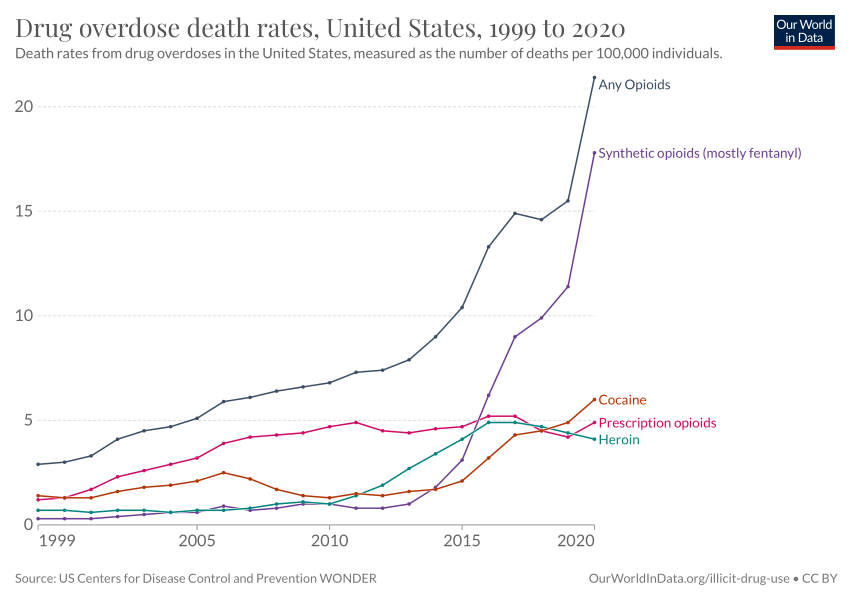
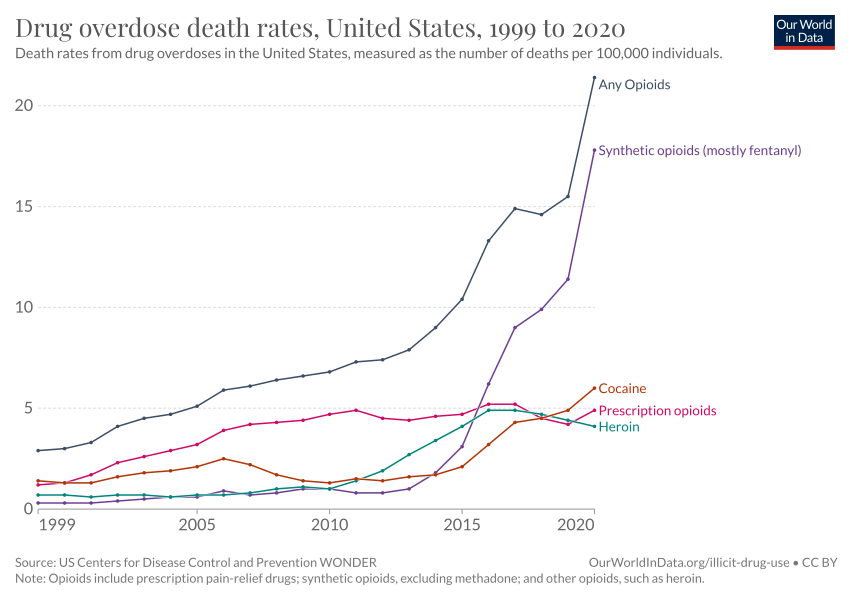
Deploy 2022-09-19T10:31:03.202Z Updating chart drug-overdose-death-rates

diff --git a/co2-emissions.html b/co2-emissions.html
@@ -1,4 +1,4 @@
-<!doctype html><html><head><meta name="viewport" content="width=device-width, initial-scale=1"/><title>CO2 emissions - Our World in Data</title><meta name="description" content="How much CO2 does the world emit? Which countries emit the most?"/><link rel="canonical" href="https://ourworldindata.org/co2-emissions"/><link rel="alternate" type="application/atom+xml" href="/atom.xml"/><link rel="apple-touch-icon" sizes="180x180" href="/apple-touch-icon.png"/><meta property="fb:app_id" content="1149943818390250"/><meta property="og:url" content="https://ourworldindata.org/co2-emissions"/><meta property="og:title" content="CO2 emissions"/><meta property="og:description" content="How much CO2 does the world emit? Which countries emit the most?"/><meta property="og:image" content="https://ourworldindata.org/uploads/2022/03/Screenshot-2022-03-04-at-16.51.31-768x480.png"/><meta property="og:site_name" content="Our World in Data"/><meta name="twitter:card" content="summary_large_image"/><meta name="twitter:site" content="@OurWorldInData"/><meta name="twitter:creator" content="@OurWorldInData"/><meta name="twitter:title" content="CO2 emissions"/><meta name="twitter:description" content="How much CO2 does the world emit? Which countries emit the most?"/><meta name="twitter:image" content="https://ourworldindata.org/uploads/2022/03/Screenshot-2022-03-04-at-16.51.31-768x480.png"/><link href="https://fonts.googleapis.com/css?family=Lato:300,400,400i,700,700i|Playfair+Display:400,700&amp;display=swap" rel="stylesheet"/><link rel="stylesheet" href="https://ourworldindata.org/assets/commons.css"/><link rel="stylesheet" href="https://ourworldindata.org/assets/owid.css"/><meta name="citation_title" content="CO₂ and Greenhouse Gas Emissions"/><meta name="citation_fulltext_html_url" content="https://ourworldindata.org/co2-and-other-greenhouse-gas-emissions"/><meta name="citation_fulltext_world_readable" content=""/><meta name="citation_publication_date" content="2020/05/11"/><meta name="citation_journal_title" content="Our World in Data"/><meta name="citation_journal_abbrev" content="Our World in Data"/><meta name="citation_author" content="Hannah Ritchie"/><meta name="citation_author" content="Max Roser"/><meta name="citation_author" content="Pablo Rosado"/></head><body class=""><header class="site-header"><div class="wrapper site-navigation-bar"><div class="site-logo"><a href="/">Our World<br/> in Data</a></div><nav class="site-navigation"><div class="topics-button-wrapper"><a href="/#entries" class="topics-button"><div class="label">Articles <br/><strong>by topic</strong></div><div class="icon"><svg width="12" height="6"><path d="M0,0 L12,0 L6,6 Z" fill="currentColor"></path></svg></div></a></div><div><div class="site-primary-navigation"><form class="HeaderSearch" action="/search" method="GET"><input type="search" name="q" placeholder="Search..."/><div class="icon"><svg aria-hidden="true" focusable="false" data-prefix="fas" data-icon="magnifying-glass" class="svg-inline--fa fa-magnifying-glass " role="img" xmlns="http://www.w3.org/2000/svg" viewBox="0 0 512 512"><path fill="currentColor" d="M416 208c0 45.9-14.9 88.3-40 122.7L502.6 457.4c12.5 12.5 12.5 32.8 0 45.3s-32.8 12.5-45.3 0L330.7 376c-34.4 25.2-76.8 40-122.7 40C93.1 416 0 322.9 0 208S93.1 0 208 0S416 93.1 416 208zM208 352c79.5 0 144-64.5 144-144s-64.5-144-144-144S64 128.5 64 208s64.5 144 144 144z"></path></svg></div></form><ul class="site-primary-links"><li><a href="/blog" data-track-note="header-navigation">Latest</a></li><li><a href="/about" data-track-note="header-navigation">About</a></li><li><a href="/donate" data-track-note="header-navigation">Donate</a></li></ul></div><div class="site-secondary-navigation"><ul class="site-secondary-links"><li><a href="/charts" data-track-note="header-navigation">All charts</a></li><li><a href="https://sdg-tracker.org" data-track-note="header-navigation">Sustainable Development Goals Tracker</a></li></ul></div></div></nav><div class="header-logos-wrapper"><a href="https://www.oxfordmartin.ox.ac.uk/global-development" class="oxford-logo"><img src="https://ourworldindata.org/oms-logo.svg" alt="Oxford Martin School logo"/></a><a href="https://global-change-data-lab.org/" class="gcdl-logo"><img src="https://ourworldindata.org/gcdl-logo.svg" alt="Global Change Data Lab logo"/></a></div><div class="mobile-site-navigation"><button data-track-note="mobile-search-button"><svg aria-hidden="true" focusable="false" data-prefix="fas" data-icon="magnifying-glass" class="svg-inline--fa fa-magnifying-glass " role="img" xmlns="http://www.w3.org/2000/svg" viewBox="0 0 512 512"><path fill="currentColor" d="M416 208c0 45.9-14.9 88.3-40 122.7L502.6 457.4c12.5 12.5 12.5 32.8 0 45.3s-32.8 12.5-45.3 0L330.7 376c-34.4 25.2-76.8 40-122.7 40C93.1 416 0 322.9 0 208S93.1 0 208 0S416 93.1 416 208zM208 352c79.5 0 144-64.5 144-144s-64.5-144-144-144S64 128.5 64 208s64.5 144 144 144z"></path></svg></button><button data-track-note="mobile-newsletter-button"><svg aria-hidden="true" focusable="false" data-prefix="fas" data-icon="envelope-open-text" class="svg-inline--fa fa-envelope-open-text " role="img" xmlns="http://www.w3.org/2000/svg" viewBox="0 0 512 512"><path fill="currentColor" d="M215.4 96H144 107.8 96v8.8V144v40.4 89L.2 202.5c1.6-18.1 10.9-34.9 25.7-45.8L48 140.3V96c0-26.5 21.5-48 48-48h76.6l49.9-36.9C232.2 3.9 243.9 0 256 0s23.8 3.9 33.5 11L339.4 48H416c26.5 0 48 21.5 48 48v44.3l22.1 16.4c14.8 10.9 24.1 27.7 25.7 45.8L416 273.4v-89V144 104.8 96H404.2 368 296.6 215.4zM0 448V242.1L217.6 403.3c11.1 8.2 24.6 12.7 38.4 12.7s27.3-4.4 38.4-12.7L512 242.1V448v0c0 35.3-28.7 64-64 64H64c-35.3 0-64-28.7-64-64v0zM176 160H336c8.8 0 16 7.2 16 16s-7.2 16-16 16H176c-8.8 0-16-7.2-16-16s7.2-16 16-16zm0 64H336c8.8 0 16 7.2 16 16s-7.2 16-16 16H176c-8.8 0-16-7.2-16-16s7.2-16 16-16z"></path></svg></button><button data-track-note="mobile-hamburger-button"><svg aria-hidden="true" focusable="false" data-prefix="fas" data-icon="bars" class="svg-inline--fa fa-bars " role="img" xmlns="http://www.w3.org/2000/svg" viewBox="0 0 448 512"><path fill="currentColor" d="M0 96C0 78.3 14.3 64 32 64H416c17.7 0 32 14.3 32 32s-14.3 32-32 32H32C14.3 128 0 113.7 0 96zM0 256c0-17.7 14.3-32 32-32H416c17.7 0 32 14.3 32 32s-14.3 32-32 32H32c-17.7 0-32-14.3-32-32zM448 416c0 17.7-14.3 32-32 32H32c-17.7 0-32-14.3-32-32s14.3-32 32-32H416c17.7 0 32 14.3 32 32z"></path></svg></button></div></div></header><div class="alert-banner"><div class="content"><div class="text"><strong>COVID-19 vaccinations, cases, excess mortality, and much more</strong></div><a href="/coronavirus#explore-the-global-situation" data-track-note="covid-banner-click">Explore our COVID-19 data</a></div></div><main><article class="page with-sidebar large-banner"><div class="offset-header"><header class="article-header"><div class="article-titles"><h1 class="entry-title">CO2 emissions</h1><div class="breadcrumb"><a href="/">Home</a><span class="separator"><svg aria-hidden="true" focusable="false" data-prefix="fas" data-icon="angle-right" class="svg-inline--fa fa-angle-right " role="img" xmlns="http://www.w3.org/2000/svg" viewBox="0 0 320 512"><path fill="currentColor" d="M278.6 233.4c12.5 12.5 12.5 32.8 0 45.3l-160 160c-12.5 12.5-32.8 12.5-45.3 0s-12.5-32.8 0-45.3L210.7 256 73.4 118.6c-12.5-12.5-12.5-32.8 0-45.3s32.8-12.5 45.3 0l160 160z"></path></svg></span><a data-track-note="breadcrumb" href="/co2-and-other-greenhouse-gas-emissions">CO₂ and GHG Emissions</a><span class="separator"><svg aria-hidden="true" focusable="false" data-prefix="fas" data-icon="angle-right" class="svg-inline--fa fa-angle-right " role="img" xmlns="http://www.w3.org/2000/svg" viewBox="0 0 320 512"><path fill="currentColor" d="M278.6 233.4c12.5 12.5 12.5 32.8 0 45.3l-160 160c-12.5 12.5-32.8 12.5-45.3 0s-12.5-32.8 0-45.3L210.7 256 73.4 118.6c-12.5-12.5-12.5-32.8 0-45.3s32.8-12.5 45.3 0l160 160z"></path></svg></span><span>CO₂ emissions</span></div></div><div class="authors-byline"><a href="/team">by Hannah Ritchie and Max Roser</a></div><div class="tools"><a href="#licence"><svg aria-hidden="true" focusable="false" data-prefix="fab" data-icon="creative-commons" class="svg-inline--fa fa-creative-commons " role="img" xmlns="http://www.w3.org/2000/svg" viewBox="0 0 496 512"><path fill="currentColor" d="M245.83 214.87l-33.22 17.28c-9.43-19.58-25.24-19.93-27.46-19.93-22.13 0-33.22 14.61-33.22 43.84 0 23.57 9.21 43.84 33.22 43.84 14.47 0 24.65-7.09 30.57-21.26l30.55 15.5c-6.17 11.51-25.69 38.98-65.1 38.98-22.6 0-73.96-10.32-73.96-77.05 0-58.69 43-77.06 72.63-77.06 30.72-.01 52.7 11.95 65.99 35.86zm143.05 0l-32.78 17.28c-9.5-19.77-25.72-19.93-27.9-19.93-22.14 0-33.22 14.61-33.22 43.84 0 23.55 9.23 43.84 33.22 43.84 14.45 0 24.65-7.09 30.54-21.26l31 15.5c-2.1 3.75-21.39 38.98-65.09 38.98-22.69 0-73.96-9.87-73.96-77.05 0-58.67 42.97-77.06 72.63-77.06 30.71-.01 52.58 11.95 65.56 35.86zM247.56 8.05C104.74 8.05 0 123.11 0 256.05c0 138.49 113.6 248 247.56 248 129.93 0 248.44-100.87 248.44-248 0-137.87-106.62-248-248.44-248zm.87 450.81c-112.54 0-203.7-93.04-203.7-202.81 0-105.42 85.43-203.27 203.72-203.27 112.53 0 202.82 89.46 202.82 203.26-.01 121.69-99.68 202.82-202.84 202.82z"></path></svg>Reuse our work freely</a><a href="#citation"><svg aria-hidden="true" focusable="false" data-prefix="fas" data-icon="book" class="svg-inline--fa fa-book " role="img" xmlns="http://www.w3.org/2000/svg" viewBox="0 0 448 512"><path fill="currentColor" d="M96 0C43 0 0 43 0 96V416c0 53 43 96 96 96H384h32c17.7 0 32-14.3 32-32s-14.3-32-32-32V384c17.7 0 32-14.3 32-32V32c0-17.7-14.3-32-32-32H384 96zm0 384H352v64H96c-17.7 0-32-14.3-32-32s14.3-32 32-32zm32-240c0-8.8 7.2-16 16-16H336c8.8 0 16 7.2 16 16s-7.2 16-16 16H144c-8.8 0-16-7.2-16-16zm16 48H336c8.8 0 16 7.2 16 16s-7.2 16-16 16H144c-8.8 0-16-7.2-16-16s7.2-16 16-16z"></path></svg>Cite this research</a></div></header></div><div class="offset-subnavigation"><div class="site-subnavigation"><div class="site-subnavigation-scroll"><ul class="site-subnavigation-links"><li class="highlight"><a href="/co2-and-other-greenhouse-gas-emissions" data-track-note="co2-subnav-co2-and-ghg-emissions">CO₂ and GHG Emissions<svg aria-hidden="true" focusable="false" data-prefix="fas" data-icon="chevron-left" class="svg-inline--fa fa-chevron-left " role="img" xmlns="http://www.w3.org/2000/svg" viewBox="0 0 384 512"><path fill="currentColor" d="M41.4 233.4c-12.5 12.5-12.5 32.8 0 45.3l192 192c12.5 12.5 32.8 12.5 45.3 0s12.5-32.8 0-45.3L109.3 256 278.6 86.6c12.5-12.5 12.5-32.8 0-45.3s-32.8-12.5-45.3 0l-192 192z"></path></svg></a></li><li class=""><a href="/co2-and-other-greenhouse-gas-emissions#co2-and-greenhouse-gas-emissions-country-profiles" data-track-note="co2-subnav-by-country">By country</a></li><li class=""><a href="/explorers/co2" data-track-note="co2-subnav-co2-data-explorer">Data explorer</a></li><li class="current"><a href="/co2-emissions" data-track-note="co2-subnav-co2-emissions">CO₂ emissions</a></li><li class=""><a href="/emissions-by-fuel" data-track-note="co2-subnav-by-fuel">CO₂ by fuel</a></li><li class=""><a href="/greenhouse-gas-emissions" data-track-note="co2-subnav-ghg-emissions">GHG emissions</a></li><li class=""><a href="/emissions-by-sector" data-track-note="co2-subnav-by-sector">By sector</a></li><li class=""><a href="/atmospheric-concentrations" data-track-note="co2-subnav-atm-concentrations">Atmospheric concentrations</a></li><li class=""><a href="/explorers/climate-change" data-track-note="co2-subnav-climate-impacts">Climate impacts</a></li></ul></div></div></div><div class="content-wrapper"><div class="toc-wrapper"><aside class="entry-sidebar"><div class="sticky-sentinel"></div><nav class="entry-toc"><ul><li><a href="#" data-track-note="toc-header">CO2 emissions</a></li><li class="section"><a href="#global-co2-emissions-from-fossil-fuels" data-track-note="toc-link">Global CO2 emissions from fossil fuels</a></li><li class="subsection"><a href="#global-co2-emissions-from-fossil-fuels-global-co2-emissions-from-fossil-fuels" data-track-note="toc-link">Global CO2 emissions from fossil fuels</a></li><li class="subsection"><a href="#global-co2-emissions-from-fossil-fuels-and-land-use-change" data-track-note="toc-link">Global CO2 emissions from fossil fuels and land use change</a></li><li class="subsection"><a href="#co2-emissions-by-region" data-track-note="toc-link">CO2 emissions by region</a></li><li class="section"><a href="#per-capita-co2-emissions" data-track-note="toc-link">Per capita CO2 emissions</a></li><li class="section"><a href="#annual-co2-emissions" data-track-note="toc-link">Annual CO2 emissions</a></li><li class="section"><a href="#annual-change-in-co2-emissions" data-track-note="toc-link">Annual change in CO2 emissions</a></li><li class="section"><a href="#cumulative-co2-emissions" data-track-note="toc-link">Cumulative CO2 emissions</a></li><li class="section"><a href="#consumption-based-trade-adjusted-emissions" data-track-note="toc-link">Consumption-based (trade-adjusted) emissions</a></li><li class="section"><a href="#decoupling-co2-emissions-from-economic-growth" data-track-note="toc-link">Decoupling CO₂ emissions from economic growth</a></li><li class="section"><a href="#global-inequalities-in-co2-emissions" data-track-note="toc-link">Global inequalities in CO2 emissions</a></li><li class="subsection"><a href="#global-inequalities-by-production" data-track-note="toc-link">Global inequalities by production</a></li><li class="subsection"><a href="#global-inequalities-by-consumption" data-track-note="toc-link">Global inequalities by consumption</a></li><li class="section"><a href="#how-do-we-measure-or-estimate-co2-emissions" data-track-note="toc-link">How do we measure or estimate CO2 emissions?</a></li><li class="section"><a href="#endnotes" data-track-note="toc-link">Endnotes</a></li><li class="section"><a href="#licence" data-track-note="toc-link">Licence</a></li><li class="section"><a href="#citation" data-track-note="toc-link">Citation</a></li></ul></nav><div class="toggle-toc"><button data-track-note="page-toggle-toc" aria-label="Open table of contents"><svg aria-hidden="true" focusable="false" data-prefix="fas" data-icon="bars" class="svg-inline--fa fa-bars " role="img" xmlns="http://www.w3.org/2000/svg" viewBox="0 0 448 512"><path fill="currentColor" d="M0 96C0 78.3 14.3 64 32 64H416c17.7 0 32 14.3 32 32s-14.3 32-32 32H32C14.3 128 0 113.7 0 96zM0 256c0-17.7 14.3-32 32-32H416c17.7 0 32 14.3 32 32s-14.3 32-32 32H32c-17.7 0-32-14.3-32-32zM448 416c0 17.7-14.3 32-32 32H32c-17.7 0-32-14.3-32-32s14.3-32 32-32H416c17.7 0 32 14.3 32 32z"></path></svg><span class="label">Contents</span></button></div></aside></div><div class="offset-content"><div class="content-and-footnotes"><div class="article-content"><section><div class="wp-block-columns is-style-sticky-right"><div class="wp-block-column"><p>You can&nbsp;<strong><a href="https://github.com/owid/co2-data">download</a></strong>&nbsp;our complete <em>Our World in Data</em> CO<sub>2</sub> and Greenhouse Gas Emissions database.</p><hr class="wp-block-separator"><p>Carbon dioxide emissions are the primary driver of global climate change. It’s widely recognised that to avoid the worst impacts of climate change, the world needs to urgently reduce emissions. But, how this responsibility is shared between regions, countries, and individuals has been an endless point of contention in international discussions. </p><p>This debate arises from the various ways in which emissions are compared: as annual emissions by country; emissions per person; historical contributions; and whether they adjust for traded goods and services. These metrics can tell very different stories. </p><p>We teamed up with the YouTube channel, <em>Kurzgesagt</em>, to produce a video which explored these different metrics in detail: <a href="https://www.youtube.com/watch?v=ipVxxxqwBQw">‘Who is responsible for climate change? – Who needs to fix it?’</a>. All of the data and research featured in this video is contained in this article: below we look in detail at the many ways emissions are broken down.</p><div class="wp-container-632841ed35778 wp-block-group">    <div class="block-wrapper"><div class="wp-block-owid-prominent-link with-image" data-no-lightbox="true" data-style="is-style-thin" data-title="&nbsp;‘Who is responsible for climate change? – Who needs to fix it?’"><a href="https://www.youtube.com/watch?v=ipVxxxqwBQw"><figure><img width="768" height="433" src="https://ourworldindata.org/uploads/2020/06/CO2-Kurzgesagt-768x433.png" class="attachment-medium_large size-medium_large" alt="Co2 kurzgesagt" loading="lazy" srcset="https://ourworldindata.org/uploads/2020/06/CO2-Kurzgesagt-768x433.png 768w, https://ourworldindata.org/uploads/2020/06/CO2-Kurzgesagt-400x225.png 400w, https://ourworldindata.org/uploads/2020/06/CO2-Kurzgesagt-800x451.png 800w, https://ourworldindata.org/uploads/2020/06/CO2-Kurzgesagt-150x84.png 150w, https://ourworldindata.org/uploads/2020/06/CO2-Kurzgesagt.png 1422w" sizes="(max-width: 768px) 100vw, 768px" data-high-res-src="https://ourworldindata.org/uploads/2020/06/CO2-Kurzgesagt.png"></figure><div class="content-wrapper"><div class="content">
+<!doctype html><html><head><meta name="viewport" content="width=device-width, initial-scale=1"/><title>CO2 emissions - Our World in Data</title><meta name="description" content="How much CO2 does the world emit? Which countries emit the most?"/><link rel="canonical" href="https://ourworldindata.org/co2-emissions"/><link rel="alternate" type="application/atom+xml" href="/atom.xml"/><link rel="apple-touch-icon" sizes="180x180" href="/apple-touch-icon.png"/><meta property="fb:app_id" content="1149943818390250"/><meta property="og:url" content="https://ourworldindata.org/co2-emissions"/><meta property="og:title" content="CO2 emissions"/><meta property="og:description" content="How much CO2 does the world emit? Which countries emit the most?"/><meta property="og:image" content="https://ourworldindata.org/uploads/2022/03/Screenshot-2022-03-04-at-16.51.31-768x480.png"/><meta property="og:site_name" content="Our World in Data"/><meta name="twitter:card" content="summary_large_image"/><meta name="twitter:site" content="@OurWorldInData"/><meta name="twitter:creator" content="@OurWorldInData"/><meta name="twitter:title" content="CO2 emissions"/><meta name="twitter:description" content="How much CO2 does the world emit? Which countries emit the most?"/><meta name="twitter:image" content="https://ourworldindata.org/uploads/2022/03/Screenshot-2022-03-04-at-16.51.31-768x480.png"/><link href="https://fonts.googleapis.com/css?family=Lato:300,400,400i,700,700i|Playfair+Display:400,700&amp;display=swap" rel="stylesheet"/><link rel="stylesheet" href="https://ourworldindata.org/assets/commons.css"/><link rel="stylesheet" href="https://ourworldindata.org/assets/owid.css"/><meta name="citation_title" content="CO₂ and Greenhouse Gas Emissions"/><meta name="citation_fulltext_html_url" content="https://ourworldindata.org/co2-and-other-greenhouse-gas-emissions"/><meta name="citation_fulltext_world_readable" content=""/><meta name="citation_publication_date" content="2020/05/11"/><meta name="citation_journal_title" content="Our World in Data"/><meta name="citation_journal_abbrev" content="Our World in Data"/><meta name="citation_author" content="Hannah Ritchie"/><meta name="citation_author" content="Max Roser"/><meta name="citation_author" content="Pablo Rosado"/></head><body class=""><header class="site-header"><div class="wrapper site-navigation-bar"><div class="site-logo"><a href="/">Our World<br/> in Data</a></div><nav class="site-navigation"><div class="topics-button-wrapper"><a href="/#entries" class="topics-button"><div class="label">Articles <br/><strong>by topic</strong></div><div class="icon"><svg width="12" height="6"><path d="M0,0 L12,0 L6,6 Z" fill="currentColor"></path></svg></div></a></div><div><div class="site-primary-navigation"><form class="HeaderSearch" action="/search" method="GET"><input type="search" name="q" placeholder="Search..."/><div class="icon"><svg aria-hidden="true" focusable="false" data-prefix="fas" data-icon="magnifying-glass" class="svg-inline--fa fa-magnifying-glass " role="img" xmlns="http://www.w3.org/2000/svg" viewBox="0 0 512 512"><path fill="currentColor" d="M416 208c0 45.9-14.9 88.3-40 122.7L502.6 457.4c12.5 12.5 12.5 32.8 0 45.3s-32.8 12.5-45.3 0L330.7 376c-34.4 25.2-76.8 40-122.7 40C93.1 416 0 322.9 0 208S93.1 0 208 0S416 93.1 416 208zM208 352c79.5 0 144-64.5 144-144s-64.5-144-144-144S64 128.5 64 208s64.5 144 144 144z"></path></svg></div></form><ul class="site-primary-links"><li><a href="/blog" data-track-note="header-navigation">Latest</a></li><li><a href="/about" data-track-note="header-navigation">About</a></li><li><a href="/donate" data-track-note="header-navigation">Donate</a></li></ul></div><div class="site-secondary-navigation"><ul class="site-secondary-links"><li><a href="/charts" data-track-note="header-navigation">All charts</a></li><li><a href="https://sdg-tracker.org" data-track-note="header-navigation">Sustainable Development Goals Tracker</a></li></ul></div></div></nav><div class="header-logos-wrapper"><a href="https://www.oxfordmartin.ox.ac.uk/global-development" class="oxford-logo"><img src="https://ourworldindata.org/oms-logo.svg" alt="Oxford Martin School logo"/></a><a href="https://global-change-data-lab.org/" class="gcdl-logo"><img src="https://ourworldindata.org/gcdl-logo.svg" alt="Global Change Data Lab logo"/></a></div><div class="mobile-site-navigation"><button data-track-note="mobile-search-button"><svg aria-hidden="true" focusable="false" data-prefix="fas" data-icon="magnifying-glass" class="svg-inline--fa fa-magnifying-glass " role="img" xmlns="http://www.w3.org/2000/svg" viewBox="0 0 512 512"><path fill="currentColor" d="M416 208c0 45.9-14.9 88.3-40 122.7L502.6 457.4c12.5 12.5 12.5 32.8 0 45.3s-32.8 12.5-45.3 0L330.7 376c-34.4 25.2-76.8 40-122.7 40C93.1 416 0 322.9 0 208S93.1 0 208 0S416 93.1 416 208zM208 352c79.5 0 144-64.5 144-144s-64.5-144-144-144S64 128.5 64 208s64.5 144 144 144z"></path></svg></button><button data-track-note="mobile-newsletter-button"><svg aria-hidden="true" focusable="false" data-prefix="fas" data-icon="envelope-open-text" class="svg-inline--fa fa-envelope-open-text " role="img" xmlns="http://www.w3.org/2000/svg" viewBox="0 0 512 512"><path fill="currentColor" d="M215.4 96H144 107.8 96v8.8V144v40.4 89L.2 202.5c1.6-18.1 10.9-34.9 25.7-45.8L48 140.3V96c0-26.5 21.5-48 48-48h76.6l49.9-36.9C232.2 3.9 243.9 0 256 0s23.8 3.9 33.5 11L339.4 48H416c26.5 0 48 21.5 48 48v44.3l22.1 16.4c14.8 10.9 24.1 27.7 25.7 45.8L416 273.4v-89V144 104.8 96H404.2 368 296.6 215.4zM0 448V242.1L217.6 403.3c11.1 8.2 24.6 12.7 38.4 12.7s27.3-4.4 38.4-12.7L512 242.1V448v0c0 35.3-28.7 64-64 64H64c-35.3 0-64-28.7-64-64v0zM176 160H336c8.8 0 16 7.2 16 16s-7.2 16-16 16H176c-8.8 0-16-7.2-16-16s7.2-16 16-16zm0 64H336c8.8 0 16 7.2 16 16s-7.2 16-16 16H176c-8.8 0-16-7.2-16-16s7.2-16 16-16z"></path></svg></button><button data-track-note="mobile-hamburger-button"><svg aria-hidden="true" focusable="false" data-prefix="fas" data-icon="bars" class="svg-inline--fa fa-bars " role="img" xmlns="http://www.w3.org/2000/svg" viewBox="0 0 448 512"><path fill="currentColor" d="M0 96C0 78.3 14.3 64 32 64H416c17.7 0 32 14.3 32 32s-14.3 32-32 32H32C14.3 128 0 113.7 0 96zM0 256c0-17.7 14.3-32 32-32H416c17.7 0 32 14.3 32 32s-14.3 32-32 32H32c-17.7 0-32-14.3-32-32zM448 416c0 17.7-14.3 32-32 32H32c-17.7 0-32-14.3-32-32s14.3-32 32-32H416c17.7 0 32 14.3 32 32z"></path></svg></button></div></div></header><div class="alert-banner"><div class="content"><div class="text"><strong>COVID-19 vaccinations, cases, excess mortality, and much more</strong></div><a href="/coronavirus#explore-the-global-situation" data-track-note="covid-banner-click">Explore our COVID-19 data</a></div></div><main><article class="page with-sidebar large-banner"><div class="offset-header"><header class="article-header"><div class="article-titles"><h1 class="entry-title">CO2 emissions</h1><div class="breadcrumb"><a href="/">Home</a><span class="separator"><svg aria-hidden="true" focusable="false" data-prefix="fas" data-icon="angle-right" class="svg-inline--fa fa-angle-right " role="img" xmlns="http://www.w3.org/2000/svg" viewBox="0 0 320 512"><path fill="currentColor" d="M278.6 233.4c12.5 12.5 12.5 32.8 0 45.3l-160 160c-12.5 12.5-32.8 12.5-45.3 0s-12.5-32.8 0-45.3L210.7 256 73.4 118.6c-12.5-12.5-12.5-32.8 0-45.3s32.8-12.5 45.3 0l160 160z"></path></svg></span><a data-track-note="breadcrumb" href="/co2-and-other-greenhouse-gas-emissions">CO₂ and GHG Emissions</a><span class="separator"><svg aria-hidden="true" focusable="false" data-prefix="fas" data-icon="angle-right" class="svg-inline--fa fa-angle-right " role="img" xmlns="http://www.w3.org/2000/svg" viewBox="0 0 320 512"><path fill="currentColor" d="M278.6 233.4c12.5 12.5 12.5 32.8 0 45.3l-160 160c-12.5 12.5-32.8 12.5-45.3 0s-12.5-32.8 0-45.3L210.7 256 73.4 118.6c-12.5-12.5-12.5-32.8 0-45.3s32.8-12.5 45.3 0l160 160z"></path></svg></span><span>CO₂ emissions</span></div></div><div class="authors-byline"><a href="/team">by Hannah Ritchie and Max Roser</a></div><div class="tools"><a href="#licence"><svg aria-hidden="true" focusable="false" data-prefix="fab" data-icon="creative-commons" class="svg-inline--fa fa-creative-commons " role="img" xmlns="http://www.w3.org/2000/svg" viewBox="0 0 496 512"><path fill="currentColor" d="M245.83 214.87l-33.22 17.28c-9.43-19.58-25.24-19.93-27.46-19.93-22.13 0-33.22 14.61-33.22 43.84 0 23.57 9.21 43.84 33.22 43.84 14.47 0 24.65-7.09 30.57-21.26l30.55 15.5c-6.17 11.51-25.69 38.98-65.1 38.98-22.6 0-73.96-10.32-73.96-77.05 0-58.69 43-77.06 72.63-77.06 30.72-.01 52.7 11.95 65.99 35.86zm143.05 0l-32.78 17.28c-9.5-19.77-25.72-19.93-27.9-19.93-22.14 0-33.22 14.61-33.22 43.84 0 23.55 9.23 43.84 33.22 43.84 14.45 0 24.65-7.09 30.54-21.26l31 15.5c-2.1 3.75-21.39 38.98-65.09 38.98-22.69 0-73.96-9.87-73.96-77.05 0-58.67 42.97-77.06 72.63-77.06 30.71-.01 52.58 11.95 65.56 35.86zM247.56 8.05C104.74 8.05 0 123.11 0 256.05c0 138.49 113.6 248 247.56 248 129.93 0 248.44-100.87 248.44-248 0-137.87-106.62-248-248.44-248zm.87 450.81c-112.54 0-203.7-93.04-203.7-202.81 0-105.42 85.43-203.27 203.72-203.27 112.53 0 202.82 89.46 202.82 203.26-.01 121.69-99.68 202.82-202.84 202.82z"></path></svg>Reuse our work freely</a><a href="#citation"><svg aria-hidden="true" focusable="false" data-prefix="fas" data-icon="book" class="svg-inline--fa fa-book " role="img" xmlns="http://www.w3.org/2000/svg" viewBox="0 0 448 512"><path fill="currentColor" d="M96 0C43 0 0 43 0 96V416c0 53 43 96 96 96H384h32c17.7 0 32-14.3 32-32s-14.3-32-32-32V384c17.7 0 32-14.3 32-32V32c0-17.7-14.3-32-32-32H384 96zm0 384H352v64H96c-17.7 0-32-14.3-32-32s14.3-32 32-32zm32-240c0-8.8 7.2-16 16-16H336c8.8 0 16 7.2 16 16s-7.2 16-16 16H144c-8.8 0-16-7.2-16-16zm16 48H336c8.8 0 16 7.2 16 16s-7.2 16-16 16H144c-8.8 0-16-7.2-16-16s7.2-16 16-16z"></path></svg>Cite this research</a></div></header></div><div class="offset-subnavigation"><div class="site-subnavigation"><div class="site-subnavigation-scroll"><ul class="site-subnavigation-links"><li class="highlight"><a href="/co2-and-other-greenhouse-gas-emissions" data-track-note="co2-subnav-co2-and-ghg-emissions">CO₂ and GHG Emissions<svg aria-hidden="true" focusable="false" data-prefix="fas" data-icon="chevron-left" class="svg-inline--fa fa-chevron-left " role="img" xmlns="http://www.w3.org/2000/svg" viewBox="0 0 384 512"><path fill="currentColor" d="M41.4 233.4c-12.5 12.5-12.5 32.8 0 45.3l192 192c12.5 12.5 32.8 12.5 45.3 0s12.5-32.8 0-45.3L109.3 256 278.6 86.6c12.5-12.5 12.5-32.8 0-45.3s-32.8-12.5-45.3 0l-192 192z"></path></svg></a></li><li class=""><a href="/co2-and-other-greenhouse-gas-emissions#co2-and-greenhouse-gas-emissions-country-profiles" data-track-note="co2-subnav-by-country">By country</a></li><li class=""><a href="/explorers/co2" data-track-note="co2-subnav-co2-data-explorer">Data explorer</a></li><li class="current"><a href="/co2-emissions" data-track-note="co2-subnav-co2-emissions">CO₂ emissions</a></li><li class=""><a href="/emissions-by-fuel" data-track-note="co2-subnav-by-fuel">CO₂ by fuel</a></li><li class=""><a href="/greenhouse-gas-emissions" data-track-note="co2-subnav-ghg-emissions">GHG emissions</a></li><li class=""><a href="/emissions-by-sector" data-track-note="co2-subnav-by-sector">By sector</a></li><li class=""><a href="/atmospheric-concentrations" data-track-note="co2-subnav-atm-concentrations">Atmospheric concentrations</a></li><li class=""><a href="/explorers/climate-change" data-track-note="co2-subnav-climate-impacts">Climate impacts</a></li></ul></div></div></div><div class="content-wrapper"><div class="toc-wrapper"><aside class="entry-sidebar"><div class="sticky-sentinel"></div><nav class="entry-toc"><ul><li><a href="#" data-track-note="toc-header">CO2 emissions</a></li><li class="section"><a href="#global-co2-emissions-from-fossil-fuels" data-track-note="toc-link">Global CO2 emissions from fossil fuels</a></li><li class="subsection"><a href="#global-co2-emissions-from-fossil-fuels-global-co2-emissions-from-fossil-fuels" data-track-note="toc-link">Global CO2 emissions from fossil fuels</a></li><li class="subsection"><a href="#global-co2-emissions-from-fossil-fuels-and-land-use-change" data-track-note="toc-link">Global CO2 emissions from fossil fuels and land use change</a></li><li class="subsection"><a href="#co2-emissions-by-region" data-track-note="toc-link">CO2 emissions by region</a></li><li class="section"><a href="#per-capita-co2-emissions" data-track-note="toc-link">Per capita CO2 emissions</a></li><li class="section"><a href="#annual-co2-emissions" data-track-note="toc-link">Annual CO2 emissions</a></li><li class="section"><a href="#annual-change-in-co2-emissions" data-track-note="toc-link">Annual change in CO2 emissions</a></li><li class="section"><a href="#cumulative-co2-emissions" data-track-note="toc-link">Cumulative CO2 emissions</a></li><li class="section"><a href="#consumption-based-trade-adjusted-emissions" data-track-note="toc-link">Consumption-based (trade-adjusted) emissions</a></li><li class="section"><a href="#decoupling-co2-emissions-from-economic-growth" data-track-note="toc-link">Decoupling CO₂ emissions from economic growth</a></li><li class="section"><a href="#global-inequalities-in-co2-emissions" data-track-note="toc-link">Global inequalities in CO2 emissions</a></li><li class="subsection"><a href="#global-inequalities-by-production" data-track-note="toc-link">Global inequalities by production</a></li><li class="subsection"><a href="#global-inequalities-by-consumption" data-track-note="toc-link">Global inequalities by consumption</a></li><li class="section"><a href="#how-do-we-measure-or-estimate-co2-emissions" data-track-note="toc-link">How do we measure or estimate CO2 emissions?</a></li><li class="section"><a href="#endnotes" data-track-note="toc-link">Endnotes</a></li><li class="section"><a href="#licence" data-track-note="toc-link">Licence</a></li><li class="section"><a href="#citation" data-track-note="toc-link">Citation</a></li></ul></nav><div class="toggle-toc"><button data-track-note="page-toggle-toc" aria-label="Open table of contents"><svg aria-hidden="true" focusable="false" data-prefix="fas" data-icon="bars" class="svg-inline--fa fa-bars " role="img" xmlns="http://www.w3.org/2000/svg" viewBox="0 0 448 512"><path fill="currentColor" d="M0 96C0 78.3 14.3 64 32 64H416c17.7 0 32 14.3 32 32s-14.3 32-32 32H32C14.3 128 0 113.7 0 96zM0 256c0-17.7 14.3-32 32-32H416c17.7 0 32 14.3 32 32s-14.3 32-32 32H32c-17.7 0-32-14.3-32-32zM448 416c0 17.7-14.3 32-32 32H32c-17.7 0-32-14.3-32-32s14.3-32 32-32H416c17.7 0 32 14.3 32 32z"></path></svg><span class="label">Contents</span></button></div></aside></div><div class="offset-content"><div class="content-and-footnotes"><div class="article-content"><section><div class="wp-block-columns is-style-sticky-right"><div class="wp-block-column"><p>You can&nbsp;<strong><a href="https://github.com/owid/co2-data">download</a></strong>&nbsp;our complete <em>Our World in Data</em> CO<sub>2</sub> and Greenhouse Gas Emissions database.</p><hr class="wp-block-separator"><p>Carbon dioxide emissions are the primary driver of global climate change. It’s widely recognised that to avoid the worst impacts of climate change, the world needs to urgently reduce emissions. But, how this responsibility is shared between regions, countries, and individuals has been an endless point of contention in international discussions. </p><p>This debate arises from the various ways in which emissions are compared: as annual emissions by country; emissions per person; historical contributions; and whether they adjust for traded goods and services. These metrics can tell very different stories. </p><p>We teamed up with the YouTube channel, <em>Kurzgesagt</em>, to produce a video which explored these different metrics in detail: <a href="https://www.youtube.com/watch?v=ipVxxxqwBQw">‘Who is responsible for climate change? – Who needs to fix it?’</a>. All of the data and research featured in this video is contained in this article: below we look in detail at the many ways emissions are broken down.</p><div class="wp-container-63284504ef103 wp-block-group">    <div class="block-wrapper"><div class="wp-block-owid-prominent-link with-image" data-no-lightbox="true" data-style="is-style-thin" data-title="&nbsp;‘Who is responsible for climate change? – Who needs to fix it?’"><a href="https://www.youtube.com/watch?v=ipVxxxqwBQw"><figure><img width="768" height="433" src="https://ourworldindata.org/uploads/2020/06/CO2-Kurzgesagt-768x433.png" class="attachment-medium_large size-medium_large" alt="Co2 kurzgesagt" loading="lazy" srcset="https://ourworldindata.org/uploads/2020/06/CO2-Kurzgesagt-768x433.png 768w, https://ourworldindata.org/uploads/2020/06/CO2-Kurzgesagt-400x225.png 400w, https://ourworldindata.org/uploads/2020/06/CO2-Kurzgesagt-800x451.png 800w, https://ourworldindata.org/uploads/2020/06/CO2-Kurzgesagt-150x84.png 150w, https://ourworldindata.org/uploads/2020/06/CO2-Kurzgesagt.png 1422w" sizes="(max-width: 768px) 100vw, 768px" data-high-res-src="https://ourworldindata.org/uploads/2020/06/CO2-Kurzgesagt.png"></figure><div class="content-wrapper"><div class="content">
 
 <p>We teamed up with YouTube channel <em>Kurzgesagt</em> to make a video on comparisons of CO<sub>2</sub> emissions.</p>
 

diff --git a/illicit-drug-use.html b/illicit-drug-use.html
@@ -234,7 +234,7 @@
                     </a>
                 </figure></div></div><div class="wp-block-columns is-style-sticky-right"><div class="wp-block-column"><h4 id="recent-overdose-rates-in-the-united-states">Recent overdose rates in the United States<a class="deep-link" href="#recent-overdose-rates-in-the-united-states"></a></h4></div><div class="wp-block-column"></div></div><div class="wp-block-columns is-style-sticky-right"><div class="wp-block-column"><p>In recent years there has been a significant increase in overdose rates in the United States&nbsp;— particularly from opioids. In 2017, the US Department of Health and Human Services <a rel="noopener noreferrer" href="https://www.hhs.gov/about/news/2017/10/26/hhs-acting-secretary-declares-public-health-emergency-address-national-opioid-crisis.html" target="_blank">declared the opioid crisis</a> a public emergency.</p><p>Overdose rates from various substances in the United States since the late 1990s are shown in the chart; these figures are based on official statistics from the US Centre for Disease Control and Prevention (CDC). Note that these figures&nbsp;— unlike IHME data used elsewhere in this entry – are not age-standardized.</p><p>Here we see that overdose rates from non-opiates (cocaine) have remained relatively constant over this period. Opioids – which include heroin, in addition to subscribed opioid pain relievers – show a steep rise; since the late 1990s, the rate of overdose has more than tripled.</p></div><div class="wp-block-column"><figure data-grapher-src="https://ourworldindata.org/grapher/drug-overdose-death-rates" class="grapherPreview">
                     <a href="https://ourworldindata.org/grapher/drug-overdose-death-rates" target="_blank">
-                        <div><img src="https://ourworldindata.org/exports/drug-overdose-death-rates_v6_850x600.svg" width="850" height="600" loading="lazy" data-no-lightbox="" alt="Drug overdose death rates v6 850x600"></div>
+                        <div><img src="https://ourworldindata.org/exports/drug-overdose-death-rates_v7_850x600.svg" width="850" height="600" loading="lazy" data-no-lightbox="" alt="Drug overdose death rates v7 850x600"></div>
                         <div class="interactionNotice">
                             <span class="icon"><svg aria-hidden="true" focusable="false" data-prefix="fas" data-icon="hand-pointer" class="svg-inline--fa fa-hand-pointer fa-w-14" role="img" xmlns="http://www.w3.org/2000/svg" viewBox="0 0 448 617">
     <path fill="currentColor" d="M448,344.59v96a40.36,40.36,0,0,1-1.06,9.16l-32,136A40,40,0,0,1,376,616.59H168a40,40,0,0,1-32.35-16.47l-128-176a40,40,0,0,1,64.7-47.06L104,420.58v-276a40,40,0,0,1,80,0v200h8v-40a40,40,0,1,1,80,0v40h8v-24a40,40,0,1,1,80,0v24h8a40,40,0,1,1,80,0Zm-256,80h-8v96h8Zm88,0h-8v96h8Zm88,0h-8v96h8Z" transform="translate(0 -0.41)"></path>

diff --git a/energy-archive.html b/energy-archive.html
@@ -200,7 +200,7 @@
 
 
 
-<div class="wp-container-632841eb6fa41 wp-block-group"><div class="wp-block-group__inner-container">
+<div class="wp-container-632845030216b wp-block-group"><div class="wp-block-group__inner-container">
 <ul class="covid-country-tiles"><li><a href="https://ourworldindata.org/energy/country/united-states?country=~USA">United States</a></li><li><a href="https://ourworldindata.org/energy/country/united-kingdom?country=~GBR">United Kingdom</a></li><li><a href="https://ourworldindata.org/energy/country/china?country=~CHN">China</a></li><li><a href="https://ourworldindata.org/energy/country/india?country=~IND">India</a></li><li><a href="https://ourworldindata.org/energy/country/brazil?country=~BRA">Brazil</a></li><li><a href="https://ourworldindata.org/energy/country/south-africa?country=~ZAF">South Africa</a></li><li><a href="https://ourworldindata.org/energy/country/germany?country=~DEU">Germany</a></li><li><a href="https://ourworldindata.org/energy/country/spain?country=~ESP">Spain</a></li><li><a href="https://ourworldindata.org/energy/country/france?country=~FRA">France</a></li><li><a href="https://ourworldindata.org/energy/country/canada?country=~CAN">Canada</a></li><li><a href="https://ourworldindata.org/energy/country/australia?country=~AUS">Australia</a></li><li><a href="https://ourworldindata.org/energy/country/sweden?country=~SWE">Sweden</a></li></ul>
 </div></div>
 </div>

diff --git a/co2-and-other-greenhouse-gas-emissions.html b/co2-and-other-greenhouse-gas-emissions.html
@@ -22,7 +22,7 @@
 
 
 
-<div class="wp-container-632841ed4cbf6 wp-block-group">
+<div class="wp-container-6328450514f4c wp-block-group">
 <ul class="covid-country-tiles"><li><a href="https://ourworldindata.org/co2/country/united-states?country=~USA">United States</a></li><li><a href="https://ourworldindata.org/co2/country/united-kingdom?country=~GBR">United Kingdom</a></li><li><a href="https://ourworldindata.org/co2/country/china?country=~CHN">China</a></li><li><a href="https://ourworldindata.org/co2/country/india?country=~IND">India</a></li><li><a href="https://ourworldindata.org/co2/country/brazil?country=~BRA">Brazil</a></li><li><a href="https://ourworldindata.org/co2/country/south-africa?country=~ZAF">South Africa</a></li><li><a href="https://ourworldindata.org/co2/country/germany?country=~DEU">Germany</a></li><li><a href="https://ourworldindata.org/co2/country/spain?country=~ESP">Spain</a></li><li><a href="https://ourworldindata.org/co2/country/france?country=~FRA">France</a></li><li><a href="https://ourworldindata.org/co2/country/canada?country=~CAN">Canada</a></li><li><a href="https://ourworldindata.org/co2/country/australia?country=~AUS">Australia</a></li><li><a href="https://ourworldindata.org/co2/country/sweden?country=~SWE">Sweden</a></li></ul>
 </div>
 </div>

diff --git a/democracy.html b/democracy.html
@@ -1862,7 +1862,7 @@ Justifies democracy characteristics</td>
 
 
 
-<div class="wp-container-632841f2249d6 wp-block-group">
+<div class="wp-container-6328450a56d38 wp-block-group">
 <ul><li><strong>full democracy</strong>: comprehensive extent of democracy, few weaknesses</li><li><strong>flawed democracy</strong>: some weaknesses in democratic institutions and culture</li><li><strong>hybrid regime</strong>: serious weaknesses in democratic institutions and culture</li><li><strong>authoritarian regime</strong>: few democratic institutions and little democratic culture</li></ul>
 </div>
 </div>

diff --git a/democracies-measurement.html b/democracies-measurement.html
@@ -531,7 +531,7 @@ Justifies democracy characteristics</td>
 
 
 
-<div class="wp-container-632841e51eb55 wp-block-group">
+<div class="wp-container-632844fc64b43 wp-block-group">
 <ul><li><strong>full democracy</strong>: comprehensive extent of democracy, few weaknesses</li><li><strong>flawed democracy</strong>: some weaknesses in democratic institutions and culture</li><li><strong>hybrid regime</strong>: serious weaknesses in democratic institutions and culture</li><li><strong>authoritarian regime</strong>: few democratic institutions and little democratic culture</li></ul>
 </div>
 </div>

diff --git a/grapher/drug-overdose-death-rates.html b/grapher/drug-overdose-death-rates.html
@@ -21,6 +21,7 @@
       "United States"
     ]
   },
+  "note": "Opioids include prescription pain-relief drugs; synthetic opioids, excluding methadone; and other opioids, such as heroin.",
   "slug": "drug-overdose-death-rates",
   "title": "Drug overdose death rates",
   "yAxis": {
@@ -28,7 +29,7 @@
     "min": 0
   },
   "minTime": 1999,
-  "version": 6,
+  "version": 7,
   "subtitle": "Death rates from drug overdoses in the United States, measured as the number of deaths per 100,000 individuals.",
   "originUrl": "https://ourworldindata.org/illicit-drug-use",
   "dimensions": [
